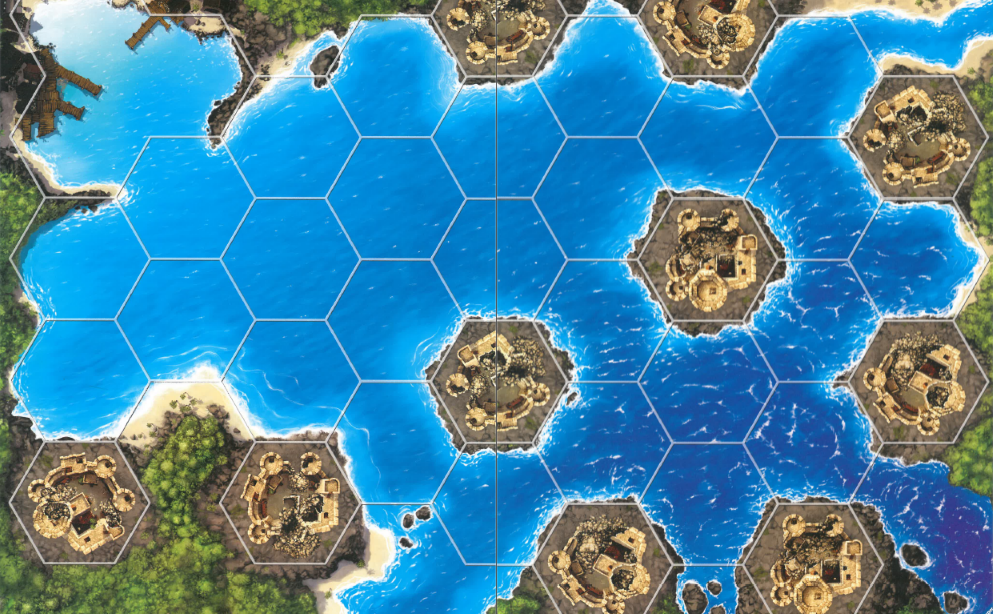
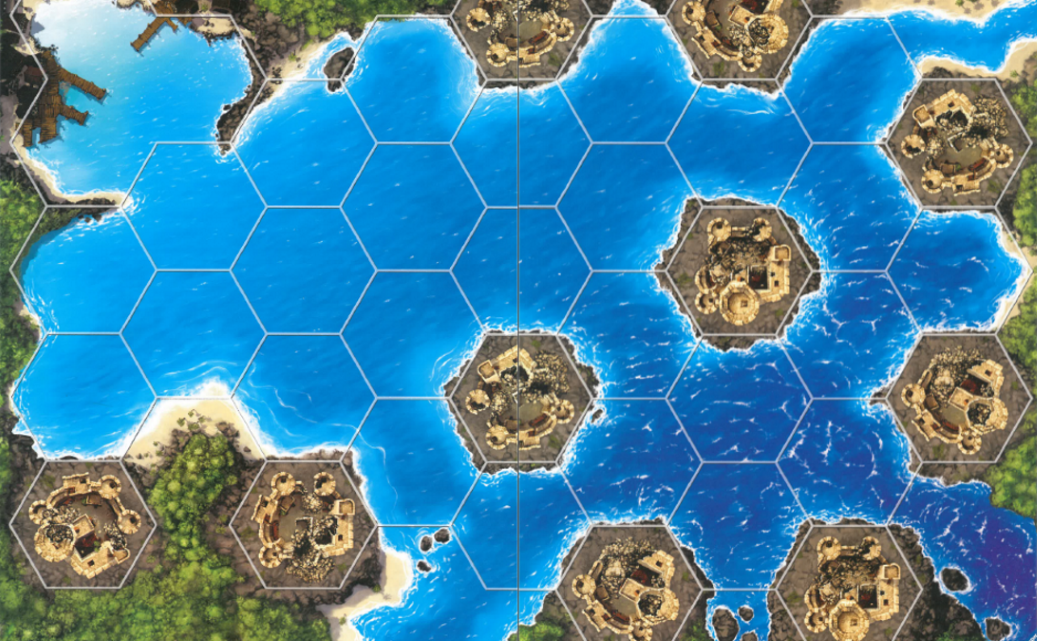
Commit vue Plateau OK

diff --git a/src/com/tresors/vue/VuePlateau.java b/src/com/tresors/vue/VuePlateau.java
@@ -8,10 +8,8 @@ import java.awt.event.ActionListener;
 /**
  * Created by Nicolas Sagon on 25/11/2014.
  */
-public class VuePlateau extends JFrame {
-
+public class vuePlateau extends JFrame {
     private JPanel mainPanel;
-    private PlateauPanel plateauPanel;
     private JMenuBar menuBar;
     private JMenu file;
     private JMenuItem menuItemFileSave;
@@ -19,14 +17,18 @@ public class VuePlateau extends JFrame {
     private JMenuItem menuItemFileExit;
     private JPanel panelScore;
     private JLabel labelJoueur1;
-    private JPanel panelAction;
+    private PlateauPanel plateauPanel;
+    private BateauPanel bateauPanel;
     private JButton buttonAction1;
     private JButton buttonAction2;
     private JLabel labelAction;
+    private JButton buttonPassTour;
 
+    public vuePlateau() {
 
-    public VuePlateau() {
         super("Les trésors de Java");
+
+        //Menu :
 
         menuBar = new JMenuBar();
         file = new JMenu("File");
@@ -46,42 +48,213 @@ public class VuePlateau extends JFrame {
         });
 
         menuBar.add(file);
-
         this.setJMenuBar(menuBar);
 
+        //Main panel
+        mainPanel.setLayout(new GridBagLayout());
+
+        //Panel score
         panelScore = new JPanel();
         panelScore.setLayout(new FlowLayout());
-
-        labelJoueur1 = new JLabel("Joueur 1 : LOL");
+        labelJoueur1 = new JLabel("Joueur 1 : TEST1");
         panelScore.add(labelJoueur1);
 
-        plateauPanel = new PlateauPanel();
-        mainPanel.setLayout(new BorderLayout());
+        GridBagConstraints constraintsPanelScore = new GridBagConstraints();
+        constraintsPanelScore.fill = GridBagConstraints.HORIZONTAL;
+        constraintsPanelScore.weighty = 1;
+        constraintsPanelScore.weightx = 1;
+        constraintsPanelScore.gridx = 0;
+        constraintsPanelScore.gridy = 0;
+        constraintsPanelScore.anchor = GridBagConstraints.PAGE_START;
 
-        panelAction = new JPanel();
-        panelAction.setLayout(new BoxLayout(panelAction, BoxLayout.Y_AXIS));
+        mainPanel.add(panelScore, constraintsPanelScore);
+
+        //Panel Plateau
+        plateauPanel = new PlateauPanel();
+        GridBagConstraints constraintsPanelPlateau = new GridBagConstraints();
+        constraintsPanelPlateau.fill = GridBagConstraints.BOTH;
+        constraintsPanelPlateau.weighty = 30;
+        constraintsPanelPlateau.weightx = 1;
+        constraintsPanelPlateau.ipadx = 920;
+        constraintsPanelPlateau.gridx = 0;
+        constraintsPanelPlateau.gridy = 1;
+        constraintsPanelPlateau.anchor = GridBagConstraints.PAGE_START;
+
+        mainPanel.add(plateauPanel, constraintsPanelPlateau);
+
+
+        //Panel Action
+        labelAction = new JLabel("1");
+        GridBagConstraints constraintsLabelAction = new GridBagConstraints();
+        constraintsLabelAction.weighty = 20;
+        constraintsLabelAction.weightx = 0.3;
+        constraintsLabelAction.gridx = 1;
+        constraintsLabelAction.gridy = 1;
+        constraintsLabelAction.insets = new Insets(0, 0, 0, 0);
+        constraintsLabelAction.anchor = GridBagConstraints.PAGE_START;
 
         buttonAction1 = new JButton("Attaquer");
+        GridBagConstraints constraintsButtonAction1 = new GridBagConstraints();
+        constraintsButtonAction1.fill = GridBagConstraints.HORIZONTAL;
+        constraintsButtonAction1.weighty = 20;
+        constraintsButtonAction1.weightx = 0.3;
+        constraintsButtonAction1.gridx = 1;
+        constraintsButtonAction1.gridy = 1;
+        constraintsButtonAction1.insets = new Insets(30, 0, 0, 0);
+        constraintsButtonAction1.anchor = GridBagConstraints.PAGE_START;
+
         buttonAction2 = new JButton("Réparer");
-        labelAction = new JLabel("1");
+        GridBagConstraints constraintsButtonAction2 = new GridBagConstraints();
+        constraintsButtonAction2.fill = GridBagConstraints.HORIZONTAL;
+        constraintsButtonAction2.weighty = 20;
+        constraintsButtonAction2.weightx = 0.3;
+        constraintsButtonAction2.gridx = 1;
+        constraintsButtonAction2.gridy = 1;
+        constraintsButtonAction2.insets = new Insets(60, 0, 0, 0);
+        constraintsButtonAction2.anchor = GridBagConstraints.PAGE_START;
 
-        panelAction.add(labelAction, Component.CENTER_ALIGNMENT);
-        panelAction.add(buttonAction1, Component.CENTER_ALIGNMENT);
-        panelAction.add(buttonAction2, Component.CENTER_ALIGNMENT);
+        buttonPassTour = new JButton("Passer le tour");
+        GridBagConstraints constraintsButtonPassTour = new GridBagConstraints();
+        constraintsButtonPassTour.fill = GridBagConstraints.HORIZONTAL;
+        constraintsButtonPassTour.weighty = 20;
+        constraintsButtonPassTour.weightx = 0.3;
+        constraintsButtonPassTour.gridx = 1;
+        constraintsButtonPassTour.gridy = 1;
+        constraintsButtonPassTour.insets = new Insets(90, 0, 0, 0);
+        constraintsButtonPassTour.anchor = GridBagConstraints.PAGE_START;
 
-        mainPanel.add(plateauPanel, BorderLayout.CENTER);
-        mainPanel.add(panelScore, BorderLayout.PAGE_START);
-        mainPanel.add(panelAction, BorderLayout.LINE_END);
-        add(mainPanel, BorderLayout.CENTER);
+        bateauPanel = new BateauPanel(BateauPanel.Couleur.Bleu);
+        GridBagConstraints constraintsBateauPanel = new GridBagConstraints();
+        constraintsBateauPanel.fill = GridBagConstraints.BOTH;
+        constraintsBateauPanel.weighty = 20;
+        constraintsBateauPanel.weightx = 2;
+        constraintsBateauPanel.gridx = 1;
+        constraintsBateauPanel.gridy = 1;
+        constraintsBateauPanel.insets = new Insets(120, 75, 0, 0);
+        constraintsBateauPanel.anchor = GridBagConstraints.PAGE_START;
 
+        mainPanel.add(labelAction, constraintsLabelAction);
+        mainPanel.add(buttonAction1, constraintsButtonAction1);
+        mainPanel.add(buttonAction2, constraintsButtonAction2);
+        mainPanel.add(buttonPassTour, constraintsButtonPassTour);
+        mainPanel.add(bateauPanel, constraintsBateauPanel);
 
+        //add to JFrame
+        this.add(mainPanel);
 
-        pack();
         setDefaultCloseOperation(WindowConstants.EXIT_ON_CLOSE);
         Toolkit tk = Toolkit.getDefaultToolkit();
         setSize((int) tk.getScreenSize().getWidth(), (int) tk.getScreenSize().getHeight());
         this.setVisible(true);
 
+    }
+
+    public JPanel getMainPanel() {
+        return mainPanel;
+    }
+
+    public void setMainPanel(JPanel mainPanel) {
+        this.mainPanel = mainPanel;
+    }
+
+    public void setMenuBar(JMenuBar menuBar) {
+        this.menuBar = menuBar;
+    }
+
+    public JMenu getFile() {
+        return file;
+    }
+
+    public void setFile(JMenu file) {
+        this.file = file;
+    }
+
+    public JMenuItem getMenuItemFileSave() {
+        return menuItemFileSave;
+    }
+
+    public void setMenuItemFileSave(JMenuItem menuItemFileSave) {
+        this.menuItemFileSave = menuItemFileSave;
+    }
+
+    public JMenuItem getMenuItemFileLoad() {
+        return menuItemFileLoad;
+    }
+
+    public void setMenuItemFileLoad(JMenuItem menuItemFileLoad) {
+        this.menuItemFileLoad = menuItemFileLoad;
+    }
+
+    public JMenuItem getMenuItemFileExit() {
+        return menuItemFileExit;
+    }
+
+    public void setMenuItemFileExit(JMenuItem menuItemFileExit) {
+        this.menuItemFileExit = menuItemFileExit;
+    }
+
+    public JPanel getPanelScore() {
+        return panelScore;
+    }
+
+    public void setPanelScore(JPanel panelScore) {
+        this.panelScore = panelScore;
+    }
+
+    public JLabel getLabelJoueur1() {
+        return labelJoueur1;
+    }
+
+    public void setLabelJoueur1(JLabel labelJoueur1) {
+        this.labelJoueur1 = labelJoueur1;
+    }
+
+    public PlateauPanel getPlateauPanel() {
+        return plateauPanel;
+    }
+
+    public void setPlateauPanel(PlateauPanel plateauPanel) {
+        this.plateauPanel = plateauPanel;
+    }
+
+    public BateauPanel getBateauPanel() {
+        return bateauPanel;
+    }
+
+    public void setBateauPanel(BateauPanel bateauPanel) {
+        this.bateauPanel = bateauPanel;
+    }
+
+    public JButton getButtonAction1() {
+        return buttonAction1;
+    }
+
+    public void setButtonAction1(JButton buttonAction1) {
+        this.buttonAction1 = buttonAction1;
+    }
+
+    public JButton getButtonAction2() {
+        return buttonAction2;
+    }
+
+    public void setButtonAction2(JButton buttonAction2) {
+        this.buttonAction2 = buttonAction2;
+    }
+
+    public JLabel getLabelAction() {
+        return labelAction;
+    }
+
+    public void setLabelAction(JLabel labelAction) {
+        this.labelAction = labelAction;
+    }
+
+    public JButton getButtonPassTour() {
+        return buttonPassTour;
+    }
+
+    public void setButtonPassTour(JButton buttonPassTour) {
+        this.buttonPassTour = buttonPassTour;
     }
 
     {
@@ -100,10 +273,7 @@ public class VuePlateau extends JFrame {
      */
     private void $$$setupUI$$$() {
         mainPanel = new JPanel();
-        mainPanel.setLayout(new BorderLayout(0, 0));
-        final JPanel panel1 = new JPanel();
-        panel1.setLayout(new BorderLayout(0, 0));
-        mainPanel.add(panel1, BorderLayout.CENTER);
+        mainPanel.setLayout(new GridBagLayout());
     }
 
     /**

diff --git a/src/com/tresors/vue/BateauPanel.java b/src/com/tresors/vue/BateauPanel.java
@@ -1,0 +1,90 @@
+package com.tresors.vue;
+
+import javax.imageio.ImageIO;
+import javax.swing.*;
+import javax.swing.border.EmptyBorder;
+import java.awt.*;
+import java.io.File;
+import java.io.IOException;
+
+/**
+ * Created by Nicolas Sagon on 25/11/2014.
+ */
+public class BateauPanel extends JPanel {
+
+    private Image bgImage;
+
+    public enum Couleur {
+        Bleu,
+        Orange,
+        Violet,
+        Jaune,
+        Rouge,
+        Blanc
+    }
+
+    public String getUrlImage(Couleur c){
+
+        String url = "";
+
+        switch (c){
+           case Bleu :
+               url = "res/images/bateauBleu.png";
+                break;
+
+            case Orange :
+                url = "res/images/bateauOrange.png";
+                break;
+
+            case Violet :
+                url = "res/images/bateauViolet.png";
+                break;
+
+            case Jaune :
+                url = "res/images/bateauJaune.png";
+                break;
+
+            case Rouge :
+                url = "res/images/bateauRouge.png";
+                break;
+
+            case Blanc :
+                url = "res/images/bateauBlanc.png";
+                break;
+
+        }
+
+        return url;
+    }
+
+    public BateauPanel(Couleur c) {
+
+        super();
+        setSize(220, 428);
+        File ficImg = new File(this.getUrlImage(c));
+        try {
+            bgImage = ImageIO.read(ficImg);
+        } catch (IOException e) {
+            e.printStackTrace();
+        }
+    }
+
+    public void changeCouleur(Couleur c) {
+
+        File ficImg = new File(this.getUrlImage(c));
+        try {
+            bgImage = ImageIO.read(ficImg);
+        } catch (IOException e) {
+            e.printStackTrace();
+        }
+        this.repaint();
+
+    }
+
+    @Override
+    protected void paintComponent(Graphics g) {
+
+        super.paintComponent(g);
+        g.drawImage(bgImage, 0, 0, null);
+    }
+}

diff --git a/src/com/tresors/Main.java b/src/com/tresors/Main.java
@@ -1,6 +1,6 @@
 package com.tresors;
 
-import com.tresors.vue.VuePlateau;
+import com.tresors.vue.vuePlateau;
 
 /**
  * Created by Nicolas Sagon on 25/11/2014.
@@ -8,6 +8,6 @@ import com.tresors.vue.VuePlateau;
 public class Main {
     public static void main(String[] args) {
 
-        VuePlateau test = new VuePlateau();
+        vuePlateau test = new vuePlateau();
     }
 }

diff --git a/src/com/tresors/vue/PlateauPanel.java b/src/com/tresors/vue/PlateauPanel.java
@@ -16,7 +16,7 @@ public class PlateauPanel extends JPanel{
     public PlateauPanel() {
 
         super();
-        setSize(993, 614);
+        setSize(1037, 641);
         File ficImg = new File("res/images/plateauFull.png");
         try {
             bgImage = ImageIO.read(ficImg);
